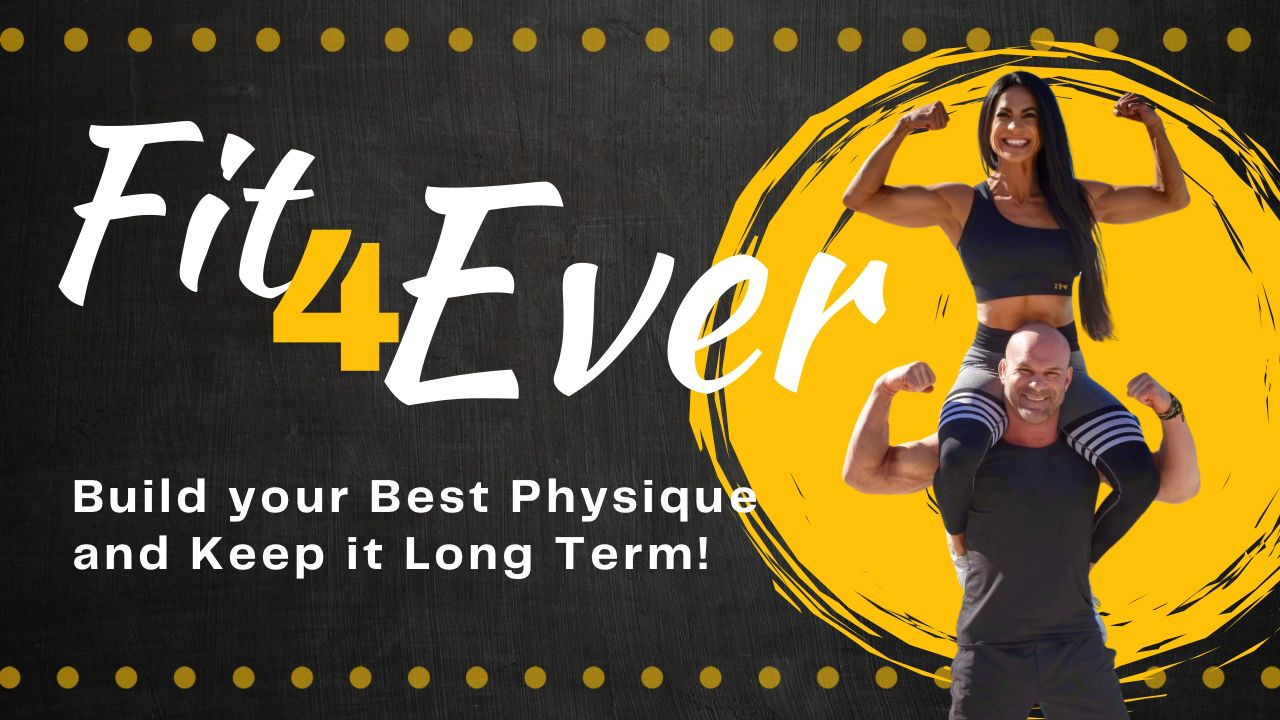
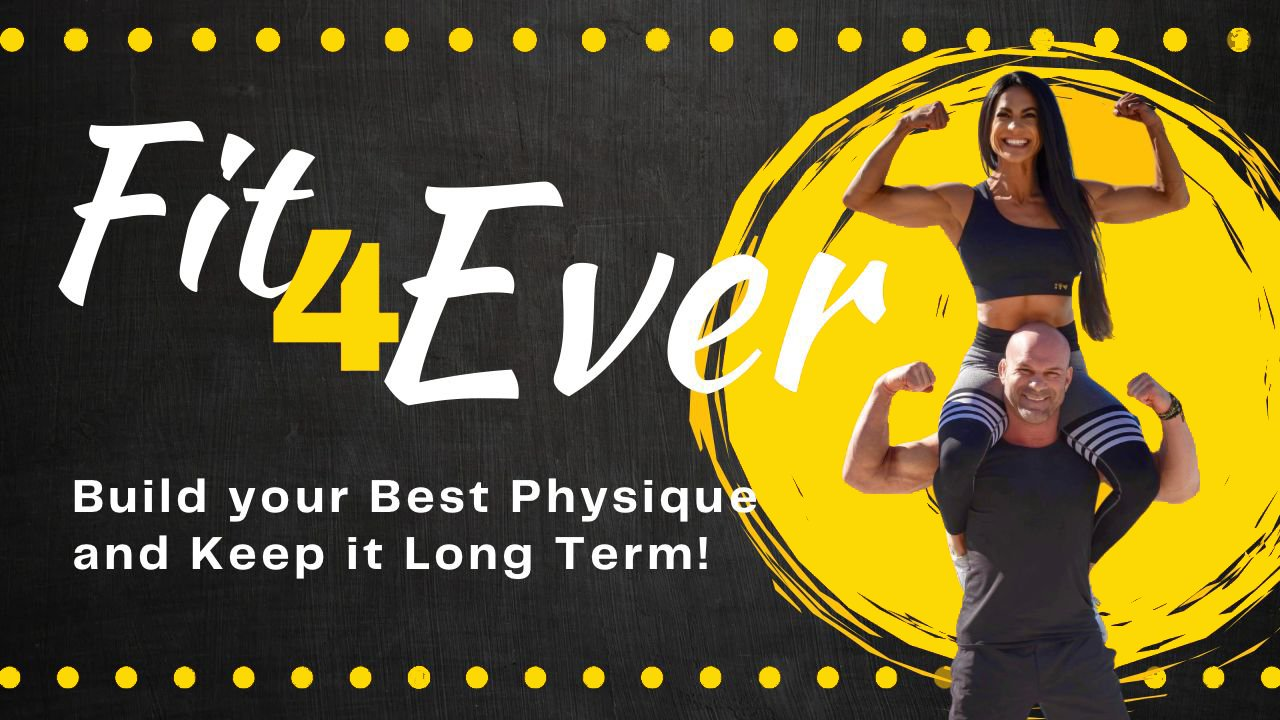
tratando de igualar colores 2

diff --git a/resources/views/programs/cover-fit4ever.blade.php b/resources/views/programs/cover-fit4ever.blade.php
@@ -14,7 +14,7 @@
                 <a href="{{ route('fit-forever') }}">
                 <div class="blog-item" >
                     <div class="position-relative overflow-hidden rounded-top">
-                        <img class="img-fluid" src="{{ asset('cover-fitforever.jpg') }}" alt="">
+                        <img class="img-fluid" src="{{ asset('cover-fitforever.webp') }}" alt="">
                     </div>
                     <div class="bg-dark d-flex align-items-center rounded-bottom p-4 text-center">
                         <div class="flex-shrink-0 text-center text-secondary border-end border-secondary pe-3 me-3">
